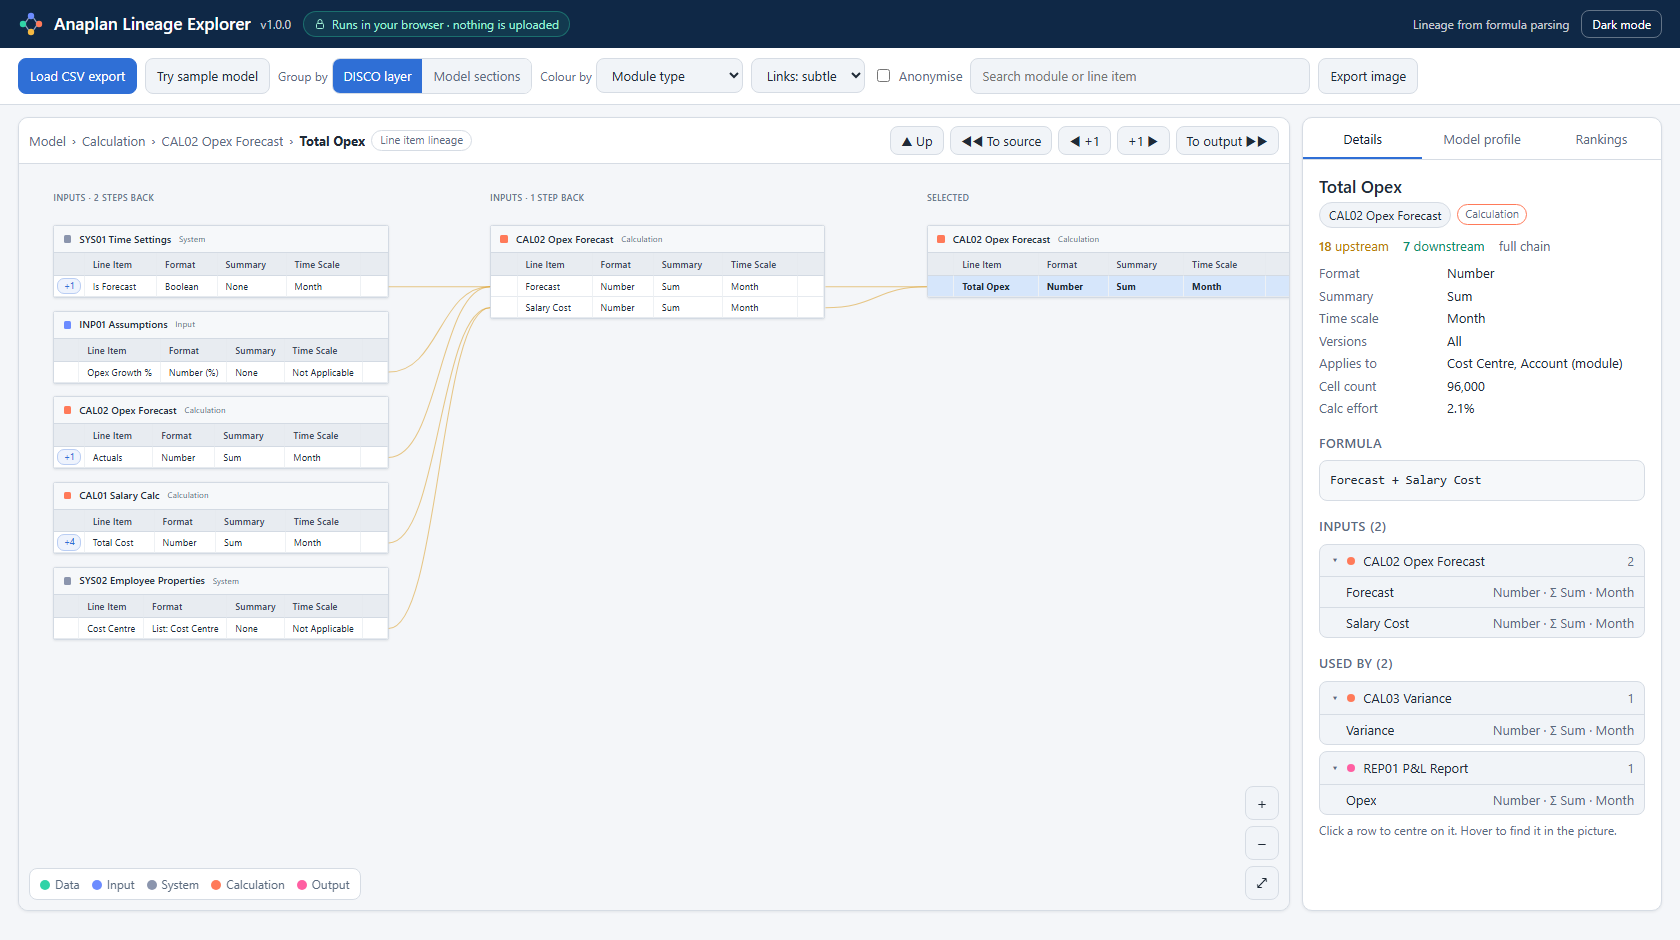
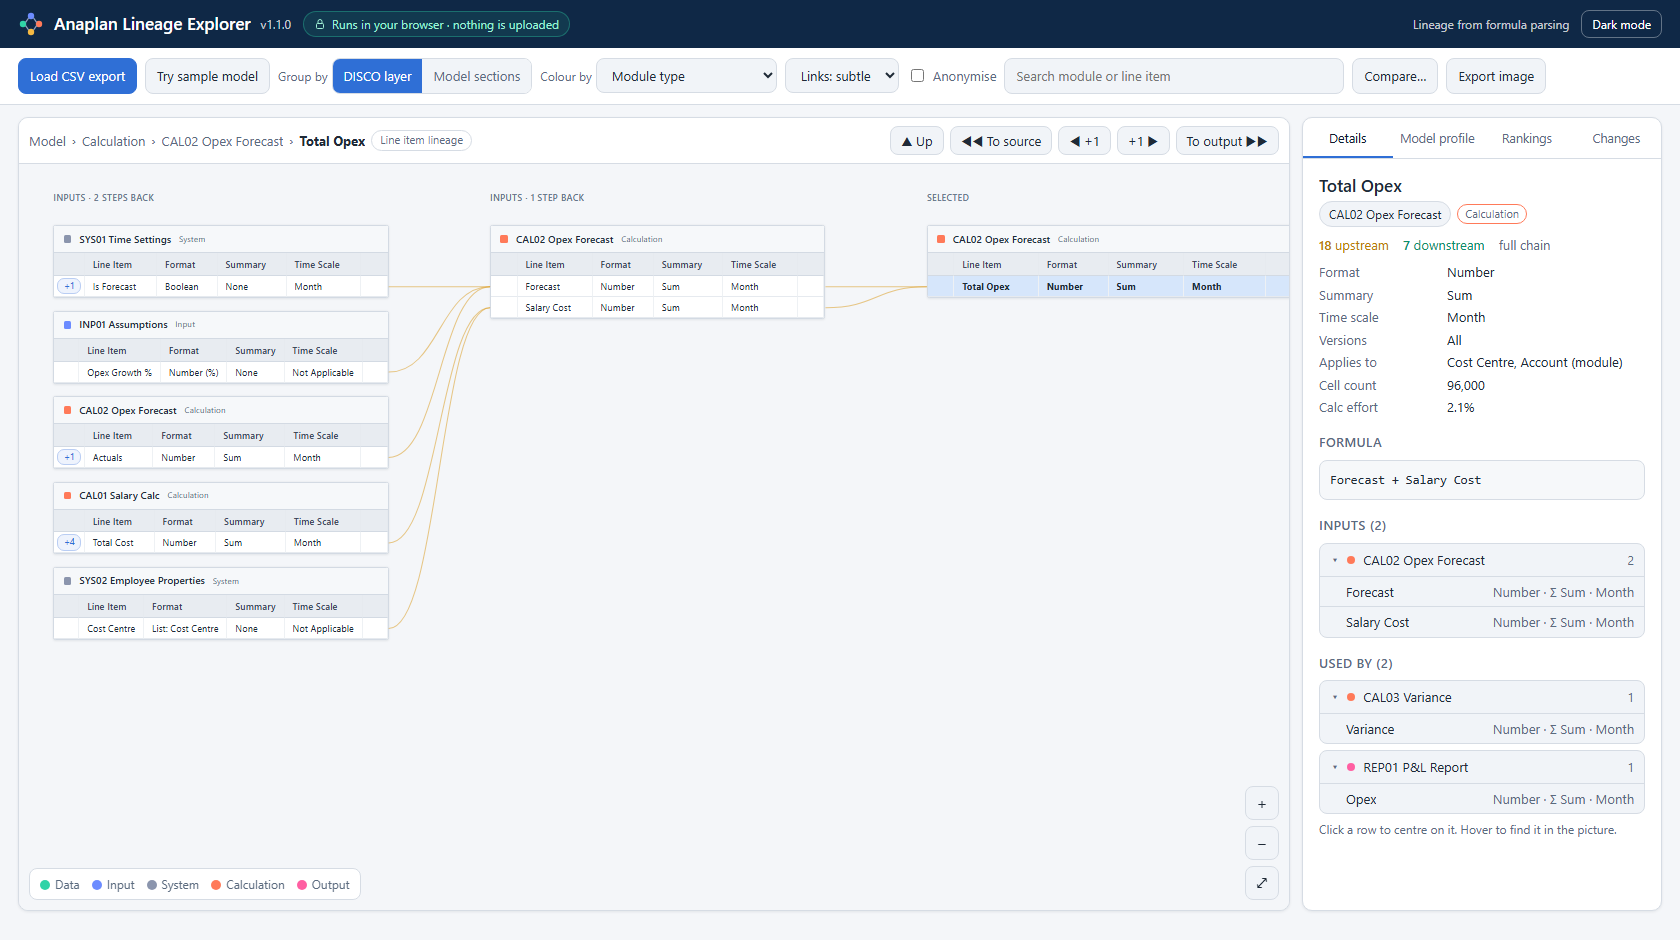
Release v1.1.0
- Show v1.1.0 next to the app name.
- CHANGELOG: the Unreleased section becomes 1.1.0 (compare two exports
  and nine new architect checks).
- Retake the README screenshots so they show v1.1.0, the Compare
  button and the Changes tab.

diff --git a/index.html b/index.html
@@ -202,7 +202,7 @@ button.xp:hover{filter:brightness(.95)}
 <header>
  <div class="logo">
   <svg width="26" height="26" viewBox="0 0 26 26" aria-hidden="true"><circle cx="5" cy="13" r="3.2" fill="#2fd3a7"/><circle cx="13" cy="5" r="3.2" fill="#6c8cff"/><circle cx="13" cy="21" r="3.2" fill="#f5b942"/><circle cx="21" cy="13" r="3.2" fill="#ff7a59"/><path d="M7.6 11.4 10.6 7M7.6 14.6l3 4.4M15.6 7l3 4.4M15.6 19l3-4.4" stroke="#93a0bd" stroke-width="1.3" fill="none"/></svg>
-  Anaplan Lineage Explorer <span id="appVersion" class="muted" style="font-size:12px;font-weight:400">v1.0.0</span>
+  Anaplan Lineage Explorer <span id="appVersion" class="muted" style="font-size:12px;font-weight:400">v1.1.0</span>
  </div>
  <span class="pill" title="All parsing happens in this browser tab. The page's security policy blocks network requests."><svg width="12" height="12" viewBox="0 0 24 24" fill="none" stroke="currentColor" stroke-width="2"><rect x="5" y="11" width="14" height="10" rx="2"/><path d="M8 11V7a4 4 0 0 1 8 0v4"/></svg>Runs in your browser · nothing is uploaded</span>
  <span class="spacer"></span>

diff --git a/CHANGELOG.md b/CHANGELOG.md
@@ -2,7 +2,7 @@
 
 All notable changes to this project are listed here. The format follows [Keep a Changelog](https://keepachangelog.com/en/1.1.0/), and the project uses [semantic versioning](https://semver.org/).
 
-## [Unreleased]
+## [1.1.0] - 2026-11-27
 
 ### Added
 
@@ -41,4 +41,5 @@ First release.
 
 - Cytoscape.js is pinned to 3.30.2 and loaded with a Subresource Integrity hash. The page shows a clear message if it cannot load.
 
+[1.1.0]: https://github.com/karankochhar123/anaplan-lineage/releases/tag/v1.1.0
 [1.0.0]: https://github.com/karankochhar123/anaplan-lineage/releases/tag/v1.0.0
